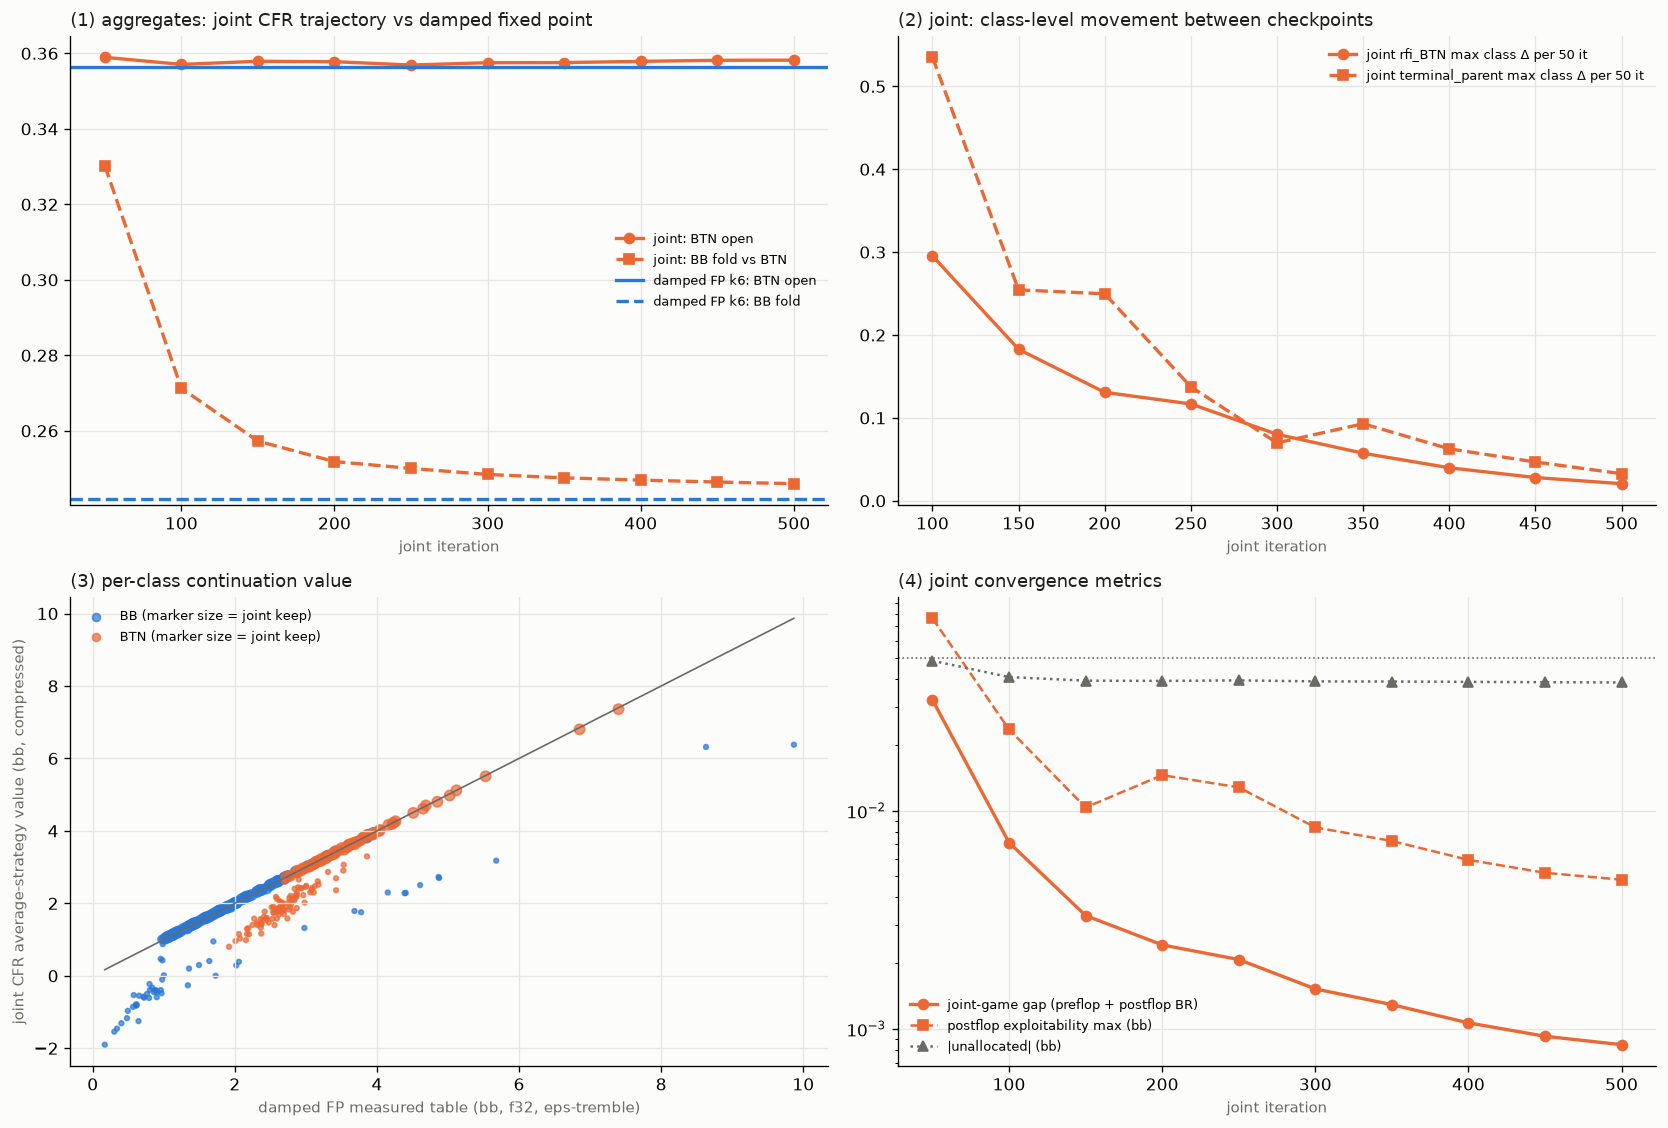
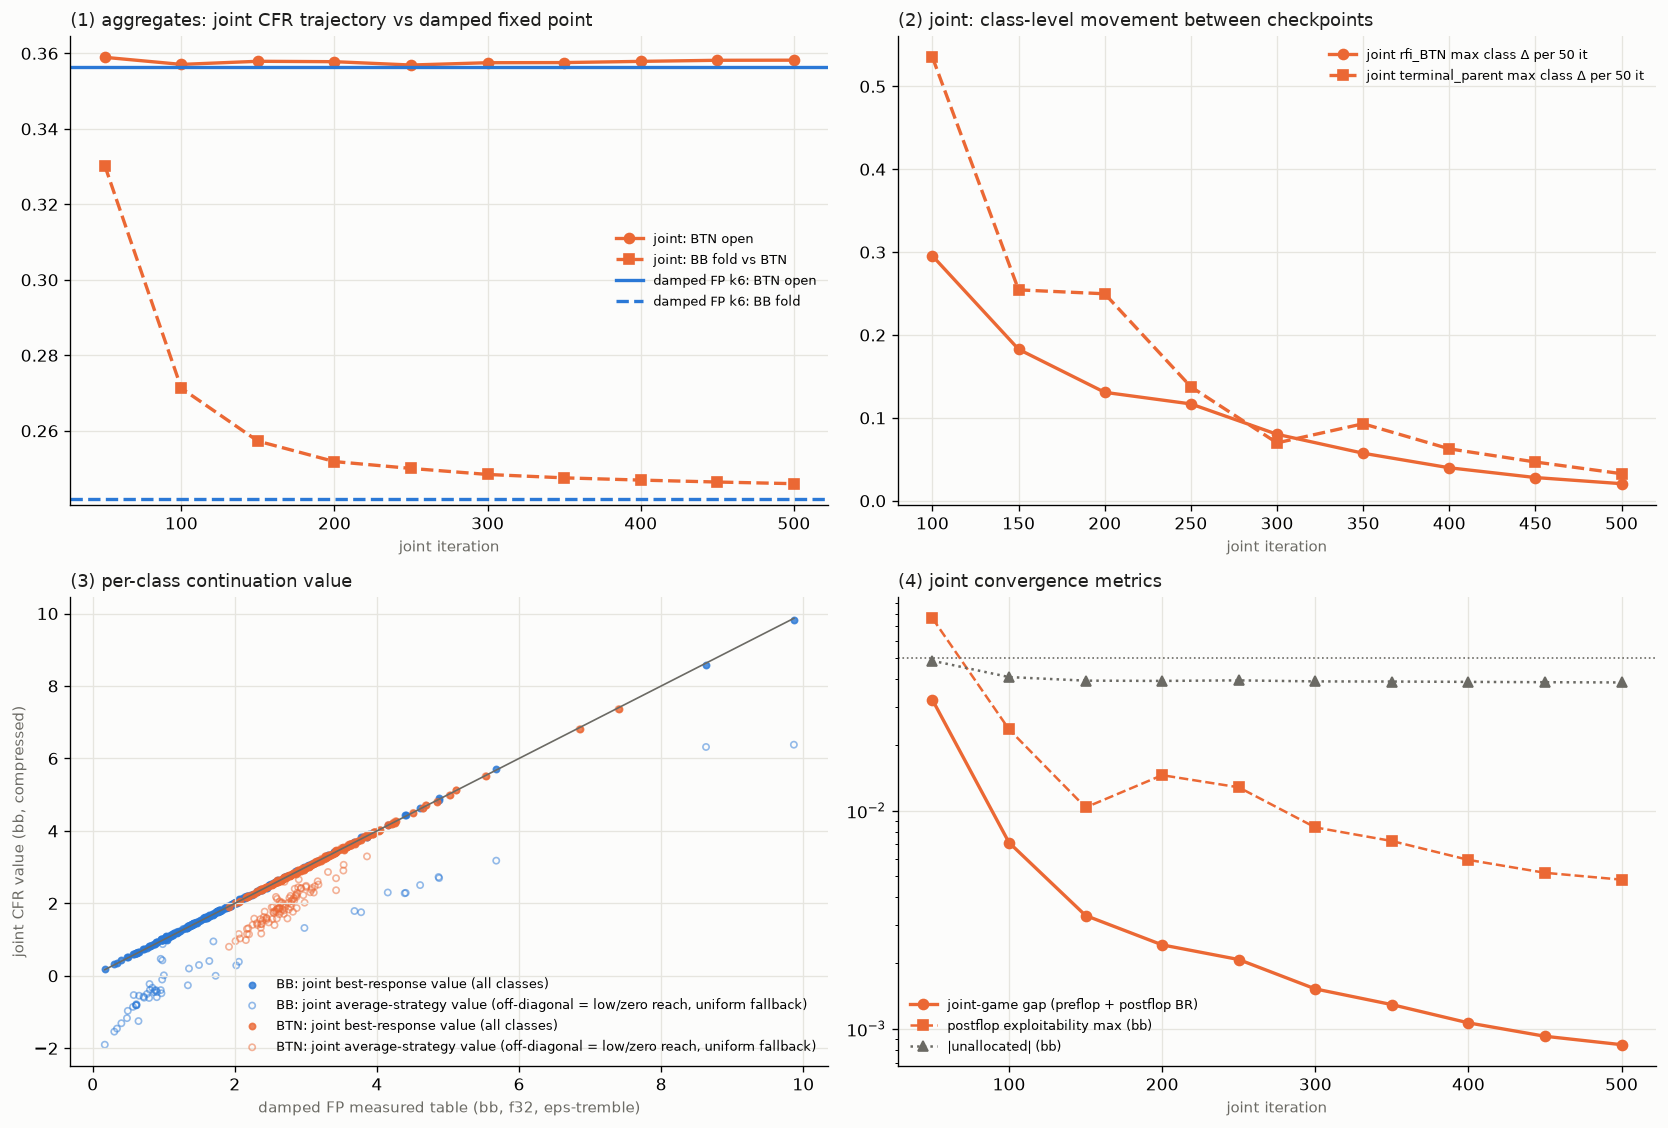
J1 figure: joint best-response values (on the diagonal) vs average-strategy values (uniform-fallback outliers)
Claude-Session: https://claude.ai/code/session_01BLRHV14gJtnk3f8cLagcNs

diff --git a/tools/gto_hu_continuation/compare_j1.py b/tools/gto_hu_continuation/compare_j1.py
@@ -161,12 +161,14 @@ def main():
         fv = seat(FV, pos, 'seats')['gross']
         jv = seat(J, pos)['gross_avg']
         keepj = seat(J, pos)['class_keep_fraction']
-        g.scatter(fv, jv, s=[8 + 30 * min(1, k) for k in keepj], color=col, alpha=0.7, label=f'{pos} (marker size = joint keep)')
+        jb = seat(J, pos)['gross_br']
+        g.scatter(fv, jb, s=14, color=col, alpha=0.8, label=f'{pos}: joint best-response value (all classes)')
+        g.scatter(fv, jv, s=14, facecolors='none', edgecolors=col, alpha=0.5, label=f'{pos}: joint average-strategy value (off-diagonal = low/zero reach, uniform fallback)')
     lo = min(min(seat(FV, p, 'seats')['gross']) for p in ('BB', 'BTN'))
     hi = max(max(seat(FV, p, 'seats')['gross']) for p in ('BB', 'BTN'))
     g.plot([lo, hi], [lo, hi], color=MUTED, lw=1)
     g.set_xlabel('damped FP measured table (bb, f32, eps-tremble)', fontsize=9, color=MUTED)
-    g.set_ylabel('joint CFR average-strategy value (bb, compressed)', fontsize=9, color=MUTED)
+    g.set_ylabel('joint CFR value (bb, compressed)', fontsize=9, color=MUTED)
     g.set_title('(3) per-class continuation value', loc='left', fontsize=11, color=INK)
     g.legend(fontsize=8, frameon=False)
     g = ax[1][1]
